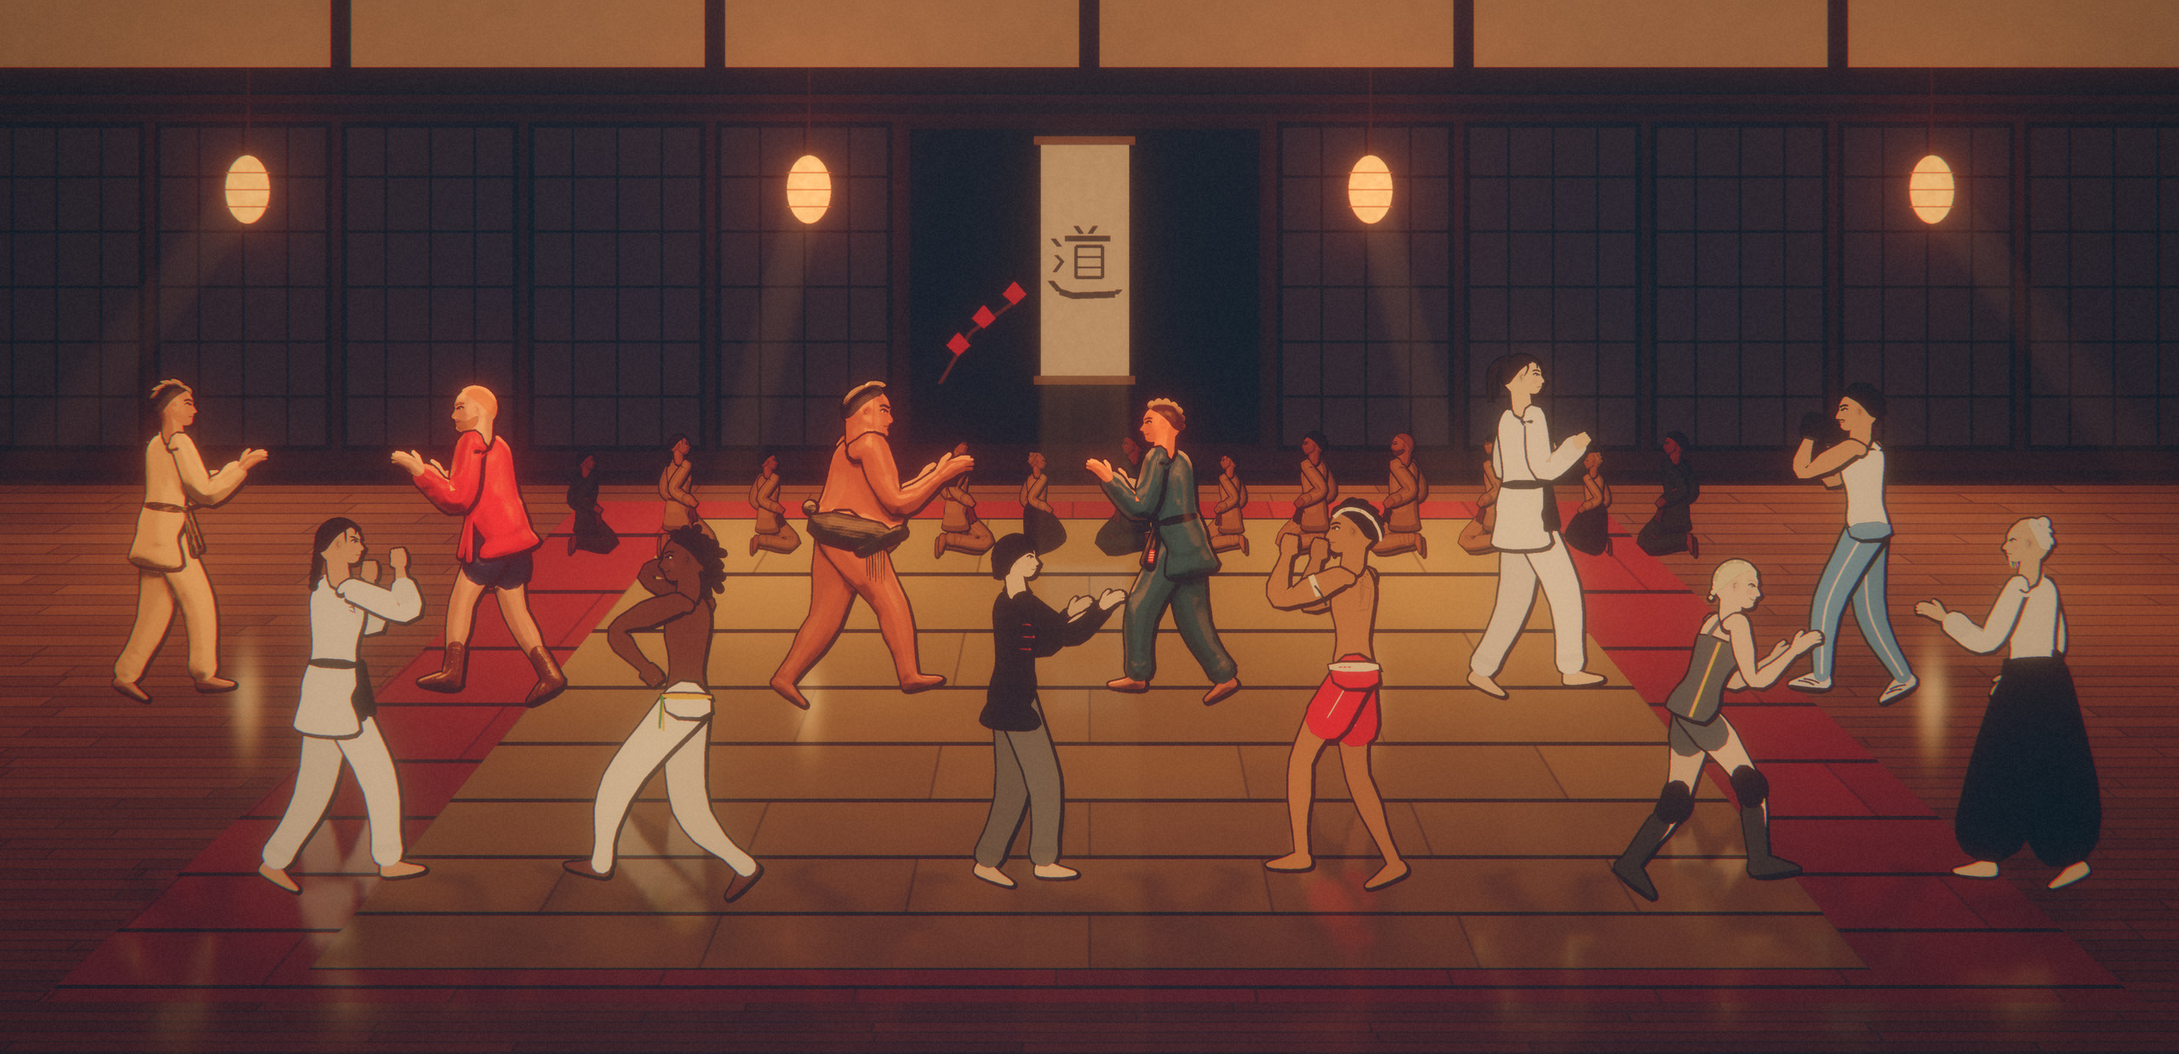
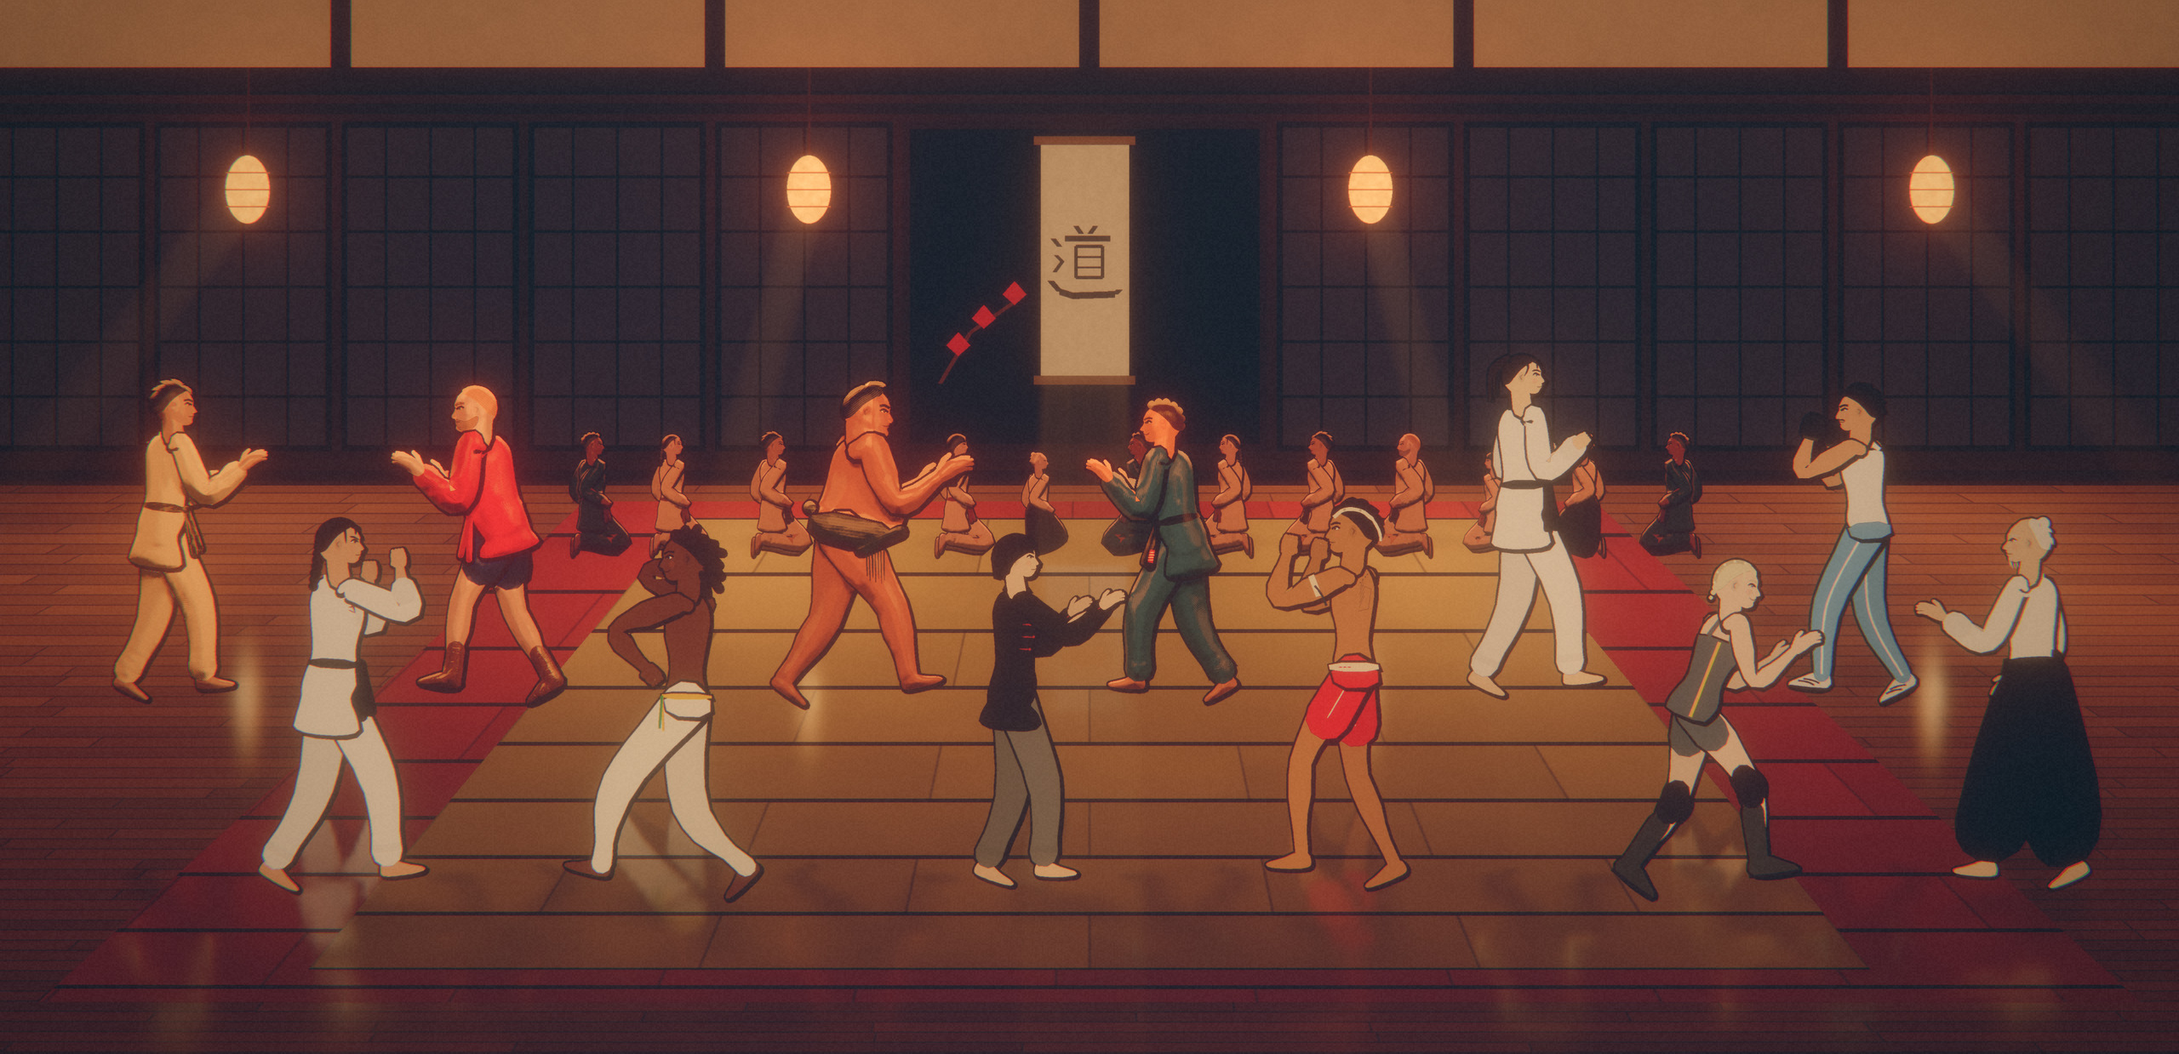
Público horneado con la luz de los luchadores
Las 14 figuras en seiza eran sprites teñidos con un único color de luz:
sin volumen, sin tejidos y planas frente a los luchadores. Con la GPU se
hornean ahora una vez por luz de asalto con el mismo litFighter del
combate (gpu.GPURenderer.bake_figure):

- Albedo, altura y piezas de render_figure; tejidos, rampa pintada,
  brillos por material, contraluz de los shōji y, de noche, un
  farolillo cenital.
- Perspectiva aérea y balance hacia el color del aire del asalto: a
  contraluz, la sombra fría del tejido viraba a verde.
- Sombra de contacto suave bajo cada figura (también en CPU).
- Cambio de asalto sin tirón: una figura por fotograma, la versión
  anterior visible y fundida en ocho escalones precalculados.
- Sprites en el formato nativo de pygame: en RGBA cada blit convertía
  píxel a píxel (20 veces más lento).
- figure_light() comparte la luz de figura entre escena y horneado.

Coste estable igual que antes (0,8 ms a 1440p); fundido 1,5 ms.
Carteles regenerados; test del horneado y del reparto por fotograma.

Claude-Session: https://claude.ai/code/session_01GCEmTRu6hx8Pncz6RpNkUS

diff --git a/tatamido/dojo.py b/tatamido/dojo.py
@@ -377,44 +377,123 @@ class Dojo:
             pygame.draw.ellipse(dec, (40, 28, 16, 42), dec.get_rect())
             surf.blit(dec, (px - w / 2, py - h / 2 + dd * 0.2))
 
-    def draw_audience(self, surf, cam, floor_back):
-        """Alumnos y maestro sentados en seiza, dibujados con el mismo renderer que los luchadores."""
-        from .anatomy import AUDIENCE
+    # Con la GPU, el público se hornea con la luz de los luchadores (gpu.GPURenderer.bake_figure): Game lo
+    # conecta aquí. Sin él, se tiñen sprites con la luz de la tarde.
+    baker = None
+
+    def _audience_sprite(self, look, facing, n, lit):
+        """Figura en seiza con su apoyo (rx, ry) y altura de referencia. Con `lit`, horneada con la luz de
+        destino del asalto: tejidos, rampa pintada, brillos de material, contraluz de los shōji y farolillo."""
         from .poses import pose_seiza
         from .render_fighter import PoseDummy, render_figure
+        fd = dict(id=look, h=1.0, w=1.0, pal=["#FFFFFF"] * 4)
+        d = PoseDummy(fd, facing, n * 0.7)
+        d.sweat = 0.0
+        ua = 1.1 * RS
+        if not lit:
+            img, rx, ry = render_figure(d, pose_seiza(fd), ua, LIGHT_RIGS[1], ss=2, ow_px=2.0 * RS)
+            return img, rx, ry, ua * 125
+        from .gpu import figure_light
+        pieces: list = []
+        img, data, rx, ry = render_figure(d, pose_seiza(fd), ua, self.target_rig, ss=2, ow_px=2.0 * RS, maps=True,
+                                          pieces=pieces)
+        r = self.target_rig
+        # el farolillo de la pared les cae desde arriba y por detrás
+        lan = (rx - 20 * ua * facing, ry - 230 * ua, 0.3 * r["lanterns"]) if r["lanterns"] > 0.05 else None
+        light = figure_light(r, self.target_gpu)
+        air = mixc(r["ambient"], r["sky_bot"], 0.5)
+        haze = tuple(((v / 255.0) ** 2.2) * 0.55 for v in air) + (0.24,)
+        lit_img = self.baker(img, data, [(ax, ay) + tuple(v) for ax, ay, *v in pieces], light, (rx, ry),
+                             tex=self.cfg.get("tex", 1.0), lantern=lan, haze=haze)
+        return lit_img, rx, ry, ua * 125
+
+    def _audience_shadow(self, w):
+        """Sombra de contacto: la mancha oscura y suave que asienta a cada figura en el tatami."""
+        key = ("shadow", w)
+        img = self._aud_scaled.get(key)
+        if img is None:
+            h = max(4, w // 5)
+            img = pygame.Surface((w, h), pygame.SRCALPHA)
+            for i in range(6, 0, -1):
+                f = i / 6
+                rw, rh = w * (0.45 + 0.55 * f), h * (0.45 + 0.55 * f)
+                pygame.draw.ellipse(img, (14, 10, 8, int(34 * (1.15 - f))), ((w - rw) / 2, (h - rh) / 2, rw, rh))
+            self._aud_scaled[key] = img
+        return img
+
+    def draw_audience(self, surf, cam, floor_back):
+        """Alumnos y maestro sentados en seiza, dibujados con el mismo renderer que los luchadores. Con la GPU
+        se hornean una vez por luz de asalto y, mientras cambia la luz, la versión anterior se funde con la nueva."""
+        from .anatomy import AUDIENCE
         rig = self.rig
         if not hasattr(self, "_aud_base"):
             self._aud_base = {}
             self._aud_scaled = {}
+        lit = self.baker is not None and getattr(self, "plate", None) is not None
+        if lit:
+            key = self.plate_key(self.target_rig)
+            cur = getattr(self, "_aud_lit", None)
+            if cur is None or cur["key"] != key:
+                self._aud_lit_from = cur
+                self._aud_v = getattr(self, "_aud_v", 0) + 1
+                self._aud_lit = dict(key=key, v=self._aud_v, sprites={})
+            sets = [self._aud_lit]
+            mix = float(getattr(self, "plate_mix", 1.0))
+            if self._aud_lit_from is not None and mix < 0.999:
+                sets.insert(0, self._aud_lit_from)
+            else:
+                self._aud_lit_from = None
+        else:
+            tint = shade(mixc(rig["key"], rig["ambient"], 0.55), 1.12)
+            sets = [dict(v=("tint",) + tuple(v // 8 for v in tint), sprites=self._aud_base, tint=tint)]
+            mix = 1.0
         ids = list(AUDIENCE)
-        tint = shade(mixc(rig["key"], rig["ambient"], 0.55), 1.12)
-        tkey = tuple(v // 8 for v in tint)
+        budget = 1
         for n, a in enumerate(self.audience):
             look = ids[(n * 5 + 3) % len(ids)]
             facing = 1 if a["x"] < 0 else -1
             px, py = self.floor_pt(cam, a["x"], 0.82)
             target = 52 * a["h"] * (0.75 + cam.zoom * 0.25) * 1.25 * RS
-            base_key = (look, facing)
-            if base_key not in self._aud_base:
-                fd = dict(id=look, h=1.0, w=1.0, pal=["#FFFFFF"] * 4)
-                d = PoseDummy(fd, facing, n * 0.7)
-                d.sweat = 0.0
-                ua = 1.1 * RS
-                img, rx, ry = render_figure(d, pose_seiza(fd), ua, LIGHT_RIGS[1], ss=2, ow_px=2.0 * RS)
-                self._aud_base[base_key] = (img, rx, ry, ua * 125)
-            img, rx, ry, h0 = self._aud_base[base_key]
-            k = max(0.2, round(target / h0 * 12) / 12)
-            sk = (base_key, k, tkey)
-            sc_img = self._aud_scaled.get(sk)
-            if sc_img is None:
-                sc_img = pygame.transform.smoothscale(img, (max(1, int(img.get_width() * k)), max(1, int(img.get_height() * k))))
-                sc_img.fill((*tint, 255), special_flags=pygame.BLEND_RGBA_MULT)
-                if len(self._aud_scaled) > 400:
-                    self._aud_scaled.clear()
-                self._aud_scaled[sk] = sc_img
             lean = a["lean"] * 6 * facing * RS
             bob = -abs(math.sin(self.t * 12 + a["bob"])) * 4 * a["arms"] * RS
-            self.drawn.append(surf.blit(sc_img, (int(px + lean - rx * k), int(py + bob - ry * k))))
+            base_key = (look, facing)
+            layers = []
+            for st in sets:
+                spr = st["sprites"].get(base_key)
+                if spr is None and (budget > 0 or len(sets) == 1 or (st is sets[-1] and not layers)):
+                    # con luz nueva se hornea una figura por fotograma (sin tirón); mientras, se ve la anterior
+                    budget -= 1
+                    spr = st["sprites"][base_key] = self._audience_sprite(look, facing, n, "tint" not in st)
+                if spr is not None:
+                    layers.append((st, spr))
+            for si, (st, spr) in enumerate(layers):
+                img, rx, ry, h0 = spr
+                k = max(0.2, round(target / h0 * 12) / 12)
+                if si == 0:
+                    sh = self._audience_shadow(max(8, int(h0 * k * 0.95)))
+                    self.drawn.append(surf.blit(sh, (int(px - sh.get_width() / 2 - facing * h0 * k * 0.05),
+                                                     int(py - sh.get_height() * 0.55))))
+                sk = (base_key, k, st["v"])
+                sc_img = self._aud_scaled.get(sk)
+                if sc_img is None:
+                    sc_img = pygame.transform.smoothscale(img, (max(1, int(img.get_width() * k)), max(1, int(img.get_height() * k))))
+                    if "tint" in st:
+                        sc_img.fill((*st["tint"], 255), special_flags=pygame.BLEND_RGBA_MULT)
+                    if len(self._aud_scaled) > 400:
+                        self._aud_scaled.clear()
+                    self._aud_scaled[sk] = sc_img
+                if si == 1:
+                    # fundido de la luz anterior a la nueva, en ocho escalones precalculados (el alfa de
+                    # superficie sobre alfa por píxel es la vía lenta de pygame)
+                    step = min(7, int(mix * 8))
+                    fk = sk + (step,)
+                    faded = self._aud_scaled.get(fk)
+                    if faded is None:
+                        faded = sc_img.copy()
+                        faded.fill((255, 255, 255, int(255 * (step + 0.5) / 8)), special_flags=pygame.BLEND_RGBA_MULT)
+                        self._aud_scaled[fk] = faded
+                    sc_img = faded
+                self.drawn.append(surf.blit(sc_img, (int(px + lean - rx * k), int(py + bob - ry * k))))
 
     def draw_beams(self, surf, cam, layer, intensity_override=None):
         """Haces volumétricos de los shōji y polvo en suspensión (capa aditiva)."""

diff --git a/tatamido/gpu.py b/tatamido/gpu.py
@@ -642,6 +642,23 @@ void main() {
 }
 """
 
+# Horneado de figuras sueltas (público): el mismo litFighter del combate sobre un sprite con su mapa de
+# altura y piezas. Devuelve color ya iluminado (sin el tinte global, que el shader de escena aplica a tBg).
+BAKE = SCENE[:SCENE.index("void main() {\n    vec2 p = vec2(gl_FragCoord.x")] + """
+uniform vec4 uHaze;            // perspectiva aérea: color del aire (lineal) y cuánto
+void main() {
+    vec2 p = vec2(gl_FragCoord.x, uRes.y - gl_FragCoord.y);
+    vec4 fg = Lp(tFig, p);
+    if (fg.a < 0.004) { frag = vec4(0.); return; }
+    vec3 c = litFighter(p, fg);
+    // a seis metros el aire del dojo come contraste: los blancos no compiten con los luchadores
+    // y les tiñe la sombra: a contraluz de los shōji la sombra fría del tejido viraba a verde
+    c *= mix(vec3(1.), normalize(uHaze.rgb + 1e-4) * 1.732, uHaze.a * 2.0);
+    c = mix(c, uHaze.rgb + c * 0.35, uHaze.a);
+    frag = vec4(pow(clamp(c, 0., 1.), vec3(1. / 2.2)), fg.a);
+}
+"""
+
 RAYS = COMMON + """
 uniform sampler2D tBg, tFig, tPlate;
 uniform vec2 uRes;
@@ -876,6 +893,15 @@ def _lin(c, k=1.0):
     return tuple(((v / 255.0) ** 2.2) * k for v in c)
 
 
+def figure_light(rig: dict, g: dict) -> dict:
+    """La luz que reciben las figuras con una luz de asalto (la de escena y la del horneado del público)."""
+    return dict(key=_lin(rig["key"], g["key_i"]), amb=_lin(rig["ambient"], g["amb_i"]), key3=g["key3"],
+                sky=_lin(mixc(rig["ambient"], rig["sky_bot"], 0.4), g["amb_i"] * 1.5),
+                bounce=_lin(rig["floor"], 0.35 * g["amb_i"]),
+                lan=(1.0 * rig["lanterns"], 0.5 * rig["lanterns"], 0.2 * rig["lanterns"]),
+                lan_i=rig["lanterns"], rim=g["rim"])
+
+
 def scene_params(dojo, cam, fighters, fx, cfg, extra=None) -> dict:
     """Recoge todo lo que la GPU necesita de un fotograma: cámara, luz, luchadores, decals, ondas."""
     rig = dojo.rig
@@ -905,13 +931,10 @@ def scene_params(dojo, cam, fighters, fx, cfg, extra=None) -> dict:
     while len(waves) < 4:
         waves.append((0.0, 0.0, 0.0, 0.0))
     p = dict(
+        figure_light(rig, g),
         cam=(cam.x, zoom * RS, base_y, cam.shake_x), depth=depth, floor_back=base_y - depth,
-        key=_lin(rig["key"], g["key_i"]), amb=_lin(rig["ambient"], g["amb_i"]),
-        key3=g["key3"], sky=_lin(mixc(rig["ambient"], rig["sky_bot"], 0.4), g["amb_i"] * 1.5),
-        bounce=_lin(rig["floor"], 0.35 * g["amb_i"]),
-        lan=(1.0 * rig["lanterns"], 0.5 * rig["lanterns"], 0.2 * rig["lanterns"]),
-        tint=_lin(rig["tint"]), beam_i=g["beam_i"] if cfg.get("beams", True) else 0.0, lan_i=rig["lanterns"],
-        refl=g["refl"], wet=g["wet"], rim=g["rim"], emissive=g["emissive"], sky_fill=g["sky_fill"],
+        tint=_lin(rig["tint"]), beam_i=g["beam_i"] if cfg.get("beams", True) else 0.0,
+        refl=g["refl"], wet=g["wet"], emissive=g["emissive"], sky_fill=g["sky_fill"],
         light_dir=g["light_dir"], shadow=g["shadow"] if cfg.get("shadows", True) else (0, 1, 0, 0),
         lanterns=lanterns, fighters=figs, decals=decals, waves=waves, tex=float(cfg.get("tex", 1.0)),
         wall=dojo.wall_geom(cam), plate=getattr(dojo, "plate", None), plate_from=getattr(dojo, "plate_from", None),
@@ -954,6 +977,7 @@ class GPURenderer:
         self.p_dof, self.v_dof = prog(DOF)
         self.p_final, self.v_final = prog(FINAL)
         self.p_present, self.v_present = prog(PRESENT)
+        self.p_bake, self.v_bake = prog(BAKE)
 
         def tex(size, comps=4, dtype="f1", mip=False):
             t = ctx.texture(size, comps, dtype=dtype)
@@ -968,6 +992,8 @@ class GPURenderer:
         self.t_figd = tex((W, H), mip=True)
         self.t_pieces = ctx.texture((256, 2), 4, dtype="f4")        # tabla de piezas: ancla, eje, material, tejido
         self.t_pieces.filter = (moderngl.NEAREST, moderngl.NEAREST)
+        self.t_bake_pieces = ctx.texture((256, 2), 4, dtype="f4")   # la del horneado, aparte de la del fotograma
+        self.t_bake_pieces.filter = (moderngl.NEAREST, moderngl.NEAREST)
         self._pieces = np.zeros((2, 256, 4), dtype="f4")
         self.slots = [dict(ver=None, col=None, mat=None), dict(ver=None, col=None, mat=None)]   # lámina actual y anterior
         self._dummy = tex((4, 4))
@@ -1262,6 +1288,58 @@ class GPURenderer:
             scr.clear(0, 0, 0, 1)
             scr.viewport = ((ww - vw) // 2, (wh - vh) // 2, vw, vh)
             self.v_present.render(moderngl.TRIANGLES, vertices=3)
+
+    def bake_figure(self, img: pygame.Surface, data: pygame.Surface, pieces, light: dict, feet, tex=1.0,
+                    lantern=None, haze=None) -> pygame.Surface:
+        """Ilumina una figura suelta (albedo + altura/piezas de render_figure) con la luz de los luchadores y la
+        devuelve como sprite RGBA: tejidos, rampa pintada, brillos de material, contraluz y farolillo.
+        `feet` es el punto de apoyo en el sprite; `lantern`, un farolillo (x, y en px del sprite, intensidad);
+        `haze`, el aire entre la figura y la cámara (r, g, b lineales y cantidad)."""
+        ctx = self.ctx
+        size = img.get_size()
+
+        def up(surf):
+            t = ctx.texture(size, 4, pygame.image.tobytes(surf, "RGBA"))
+            t.repeat_x = t.repeat_y = False
+            t.filter = (moderngl.LINEAR_MIPMAP_LINEAR, moderngl.LINEAR)
+            t.build_mipmaps()
+            return t
+
+        t_fig, t_figd = up(img), up(data)
+        arr = np.zeros((2, 256, 4), dtype="f4")
+        for i, pc in enumerate(pieces[:254]):
+            arr[0, i + 1] = pc[0:4]
+            arr[1, i + 1] = pc[4:8]
+        self.t_bake_pieces.write(arr.tobytes())
+        out = ctx.texture(size, 4)
+        fbo = ctx.framebuffer([out])
+        pr = self.p_bake
+        self._bind(pr, tFig=t_fig, tFigD=t_figd, tPieces=self.t_bake_pieces)
+        S = self._set
+        S(pr, "uRes", (float(size[0]), float(size[1])))
+        S(pr, "uTexI", float(tex))
+        for k, n in (("key3", "uKey3"), ("sky", "uSky"), ("bounce", "uBounce"), ("key", "uKey"), ("lan", "uLan")):
+            S(pr, n, tuple(float(v) for v in light[k]))
+        S(pr, "uTint", (1.0, 1.0, 1.0))
+        S(pr, "uRimI", float(light["rim"]))
+        S(pr, "uLanI", float(light["lan_i"]))
+        lan = [(0.0, 0.0, 0.0, 0.0)] * 4
+        if lantern is not None and lantern[2] > 0.0:
+            lan[0] = (float(lantern[0]), float(lantern[1]), 0.0, float(lantern[2]))
+        S(pr, "uLanterns", lan)
+        S(pr, "uHaze", tuple(float(v) for v in haze) if haze else (0.0, 0.0, 0.0, 0.0))
+        fx, fy = feet
+        S(pr, "uFighters", [(float(fx), float(fy), 0.0, float(size[0])), (float(fx), float(fy), 0.0, float(size[0]))])
+        ctx.disable(moderngl.BLEND)
+        fbo.use()
+        fbo.clear(0.0, 0.0, 0.0, 0.0)
+        self.v_bake.render(moderngl.TRIANGLES, vertices=3)
+        # al formato nativo de pygame: un sprite RGBA se convertiría píxel a píxel en cada blit (20× más lento)
+        res = pygame.image.frombytes(fbo.read(components=4), size, "RGBA", True).convert(
+            pygame.Surface((1, 1), pygame.SRCALPHA))
+        for o in (fbo, out, t_fig, t_figd):
+            o.release()
+        return res
 
     def read(self, with_hud=True) -> pygame.Surface:
         """Fotograma final como Surface (con HUD) o la imagen limpia sin interfaz (Modo Foto)."""

diff --git a/tests/test_audience.py b/tests/test_audience.py
@@ -1,0 +1,48 @@
+"""Público horneado en la GPU con la luz de los luchadores: una vez por luz de asalto, en formato nativo y
+sin tirón (una figura por fotograma mientras se ve la versión anterior)."""
+import pygame
+import pytest
+
+from tatamido.dojo import Dojo
+from tatamido.game import Game
+from tatamido.gpu import GPURenderer
+
+
+def _gpu_ok():
+    if not GPURenderer.available():
+        return False
+    try:
+        GPURenderer.offscreen_context()
+        return True
+    except Exception:
+        return False
+
+
+@pytest.mark.skipif(not _gpu_ok(), reason="sin OpenGL")
+def test_audience_is_baked_per_round_light():
+    g = Game(dict(preset="ultra", headless=True, windowed=True, renderer="gpu"))
+    assert Dojo.baker is not None
+    g.setup_match("spectate", "lin", "kanoa")
+    g.scene = "fight"
+    keys = pygame.key.get_pressed()
+    g.update(keys)
+    g.draw()
+    d = g.match.dojo
+    first = d._aud_lit
+    sprites = first["sprites"]
+    assert len(sprites) >= 6                                     # al empezar se hornea todo de una vez
+    img = next(iter(sprites.values()))[0]
+    assert img.get_masks() == pygame.Surface((1, 1), pygame.SRCALPHA).get_masks()
+    w, h = img.get_size()
+    lit = {img.get_at((x, y))[:3] for x in range(0, w, 7) for y in range(0, h, 7) if img.get_at((x, y))[3] > 200}
+    assert len(lit) > 40                                         # luz por píxel y tejidos, no un tinte plano
+    # nueva luz de asalto: se hornea poco a poco y la anterior sigue a la vista mientras se funde
+    d.set_round(3)
+    g.update(keys)
+    g.draw()
+    assert d._aud_lit is not first and d._aud_lit_from is first
+    assert len(d._aud_lit["sprites"]) == 1
+    for _ in range(len(sprites)):
+        g.update(keys)
+        g.draw()
+    assert len(d._aud_lit["sprites"]) == len(sprites)

diff --git a/tatamido/game.py b/tatamido/game.py
@@ -47,6 +47,7 @@ class Game:
         self.gpu: Optional[GPURenderer] = None
         self.renderer_pref = args.get("renderer") or self.save.get("renderer", "auto")
         self.screen = self._open_display(args)
+        Dojo.baker = self.gpu.bake_figure if self.gpu is not None else None   # público horneado con luz por píxel
         pygame.display.set_caption(TITLE + ("  ·  GPU" if self.gpu else "  ·  CPU"))
         self.bg = pygame.Surface((RW, RH), pygame.SRCALPHA)
         self.fig = pygame.Surface((RW, RH), pygame.SRCALPHA)

diff --git a/README.md b/README.md
@@ -92,7 +92,10 @@ Cada luchador se dibuja con anatomía propia y no con cápsulas (`tatamido/anato
   borde de la piel, brillos duros de sudor, cuero y satén, anillo de luz en el pelo y contraluz recortado.
 - **Contraste y profundidad:** menos neblina y bloom, curva de contraste más firme y desenfoque suave
   del fondo en juego (presets *alto* en adelante) para despegar los cuerpos.
-- **Público real:** alumnos y un maestro del dojo sentados en seiza, dibujados con el mismo renderer.
+- **Público real:** alumnos y un maestro del dojo sentados en seiza, dibujados con el mismo renderer. Con
+  la GPU se hornean una vez por luz de asalto con el sombreado de los luchadores (tejidos, rampa pintada,
+  brillos de material, contraluz de los shōji y farolillo cenital de noche), con perspectiva aérea y sombra
+  de contacto. Al cambiar de asalto se hornea una figura por fotograma mientras la luz anterior se funde.
 - **Escalador dinámico de calidad:** si un fotograma se pasa de presupuesto, baja el supermuestreo de
   los luchadores antes que la fluidez, y lo recupera cuando sobra tiempo.
 
